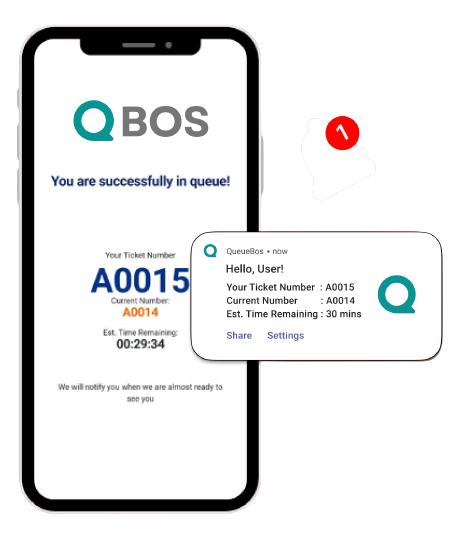
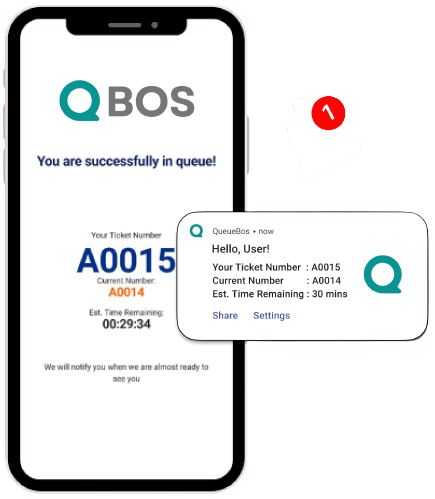
fix header

diff --git a/index.html b/index.html
@@ -75,23 +75,19 @@
      </div>
   </header><!-- End Header -->
 
-  <section id="hero-animated" class="hero-animated d-flex align-items-center">
-    <div class="container">
-      <div class="row">
-        <div class=" justify-content-center text-center col-md-7 align-items-center position-relative" data-aos="zoom-out">
-          <div class="brand-tilt d-none d-sm-none d-md-none d-lg-none d-xl-block">
-            <img src="assets/img/header-queuebos/brand-tilt.png" alt="brand-title">
-          </div>
+  <section id="hero-animated" class="hero-animated align-items-center">
+    <div class="row header-home px-5" style="padding-top: 80px;">
+      <div class="col-lg-7 col-md-7 col-sm-12 d-flex" data-aos="zoom-out">
+        <img class="brand-tilt" src="assets/img/header-queuebos/brand-tilt.png" alt="brand-title">
+      </div>
+      <div class="col-lg-5 col-md-5 col-sm-12 d-flex" data-aos="zoom-out">
+        <div class="header-mockup">
+          <img class="header-box"src="assets/img/header-queuebos/mockup.png" alt="mockup">
+          <div style="margin: -20% 10% 0" >
+            <a href="index.html#about" class="btn-see-more d-xl-block">See More</a>
+          </div> 
         </div>
-        <div class=" justify-content-center text-center col-md-1 align-items-center position-relative" data-aos="zoom-out">
-          <div class="header-box">
-            <img src="assets/img/header-queuebos/mockup.png" alt="mockup">
-          </div>
-        </div>
-        <div class=" justify-content-center  col-md-3  position-relative" data-aos="zoom-out" style="padding-top:30%;" >
-          <a href="index.html#about" class="btn-see-more  d-none d-sm-none d-md-none d-lg-none d-xl-block">See More</a>
-        </div>
-    </div>
+      </div>
     </div>
   </section>
   
@@ -252,7 +248,7 @@
             <div class="dropdown-content row">
               <div class="step-img-how">
                 <img src="assets/img/images/howitworks-1.png" class="step-img-how" style="margin-left: -5px;" alt="step-howitworks-1">
-              </div>
+              </div> 
             </div>
           </div>
         </div>

diff --git a/assets/css/main.css b/assets/css/main.css
@@ -567,7 +567,6 @@ section {
 /* Add this rule to your CSS */
 .hero-animated {
   width: 100%;
-  min-height: 100vh;
   background: url("../img/header-queuebos/header-bg-pl.png") center center;
   background-size: cover;
   position: relative;
@@ -642,13 +641,11 @@ section {
   border-radius: 40px;
   border: 4px solid #FFF;
   color: #FFF;
-  width: 130px;
-  height: 40px;
   background-color: #000;
   text-align: center;
   display: block;
   float: right;
-  padding-block: 5px;
+  padding: 10px 20px;
   font-size: 15px;
   font-weight: 400;
 }
@@ -658,27 +655,66 @@ section {
   background: rgba(var(--color-primary-rgb), 0.85);
 }
 
-.hero-animated .brand-tilt{
-  padding: 15px;
+#hero-animated .brand-tilt{
+  object-fit: contain;
+  background-repeat: no-repeat;
   padding-top: 30%;
+  width: 100%;
+  height: auto;
+  align-items: end;
 }
 
-.hero-animated .header-box{
-  padding: 10px;
-  /* margin-right: -20px ; */
-  align-content: flex-start;
+#hero-animated .header-box{
+  width: 100%;
+  height: auto;
 }
 
-@media (max-width: 810px) {
-  .hero-animated .header-box{
-    padding: 150px 0px 0px 0px;
+#hero-animated .header-home{
+padding-bottom: 100px;
+}
+
+#hero-animated .header-mockup{
+  display: flex;
+  flex-direction: column;
+  align-items: end;
+  width: 100%;
+  height: auto;
+}
+
+@media (max-width: 1081px) {
+  #hero-animated .header-home{
+    padding-bottom: 40px;
   }
+}
+
+@media (max-width: 811px) {
   .hero-animated .btn-see-more{
-    display:none;
+    display: none;
   }
-}
-@media (max-width: 1200px) {
 
+  #hero-animated .header-box {
+    padding-bottom: 50px;
+  }
+
+  #hero-animated .header-home{
+    padding-bottom: 0px;
+  }
+    
+}
+@media (max-width: 760px) {
+  #hero-animated .brand-tilt{
+    padding-top: 0px;
+    padding-bottom: 50px;
+  }
+
+  #hero-animated .header-home{
+    padding: 100px 50px !important;
+  }
+
+  #hero-animated .header-box {
+    padding-bottom: 0px;
+  }
+    
 }
 
 /* .hero-animated .btn-get-started {
